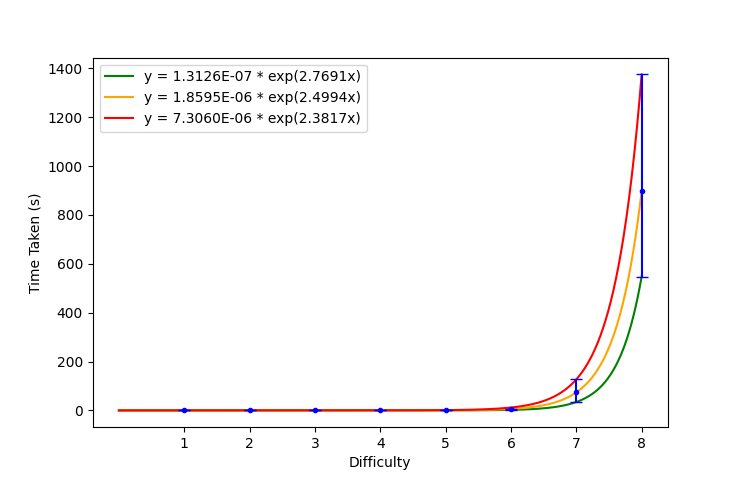
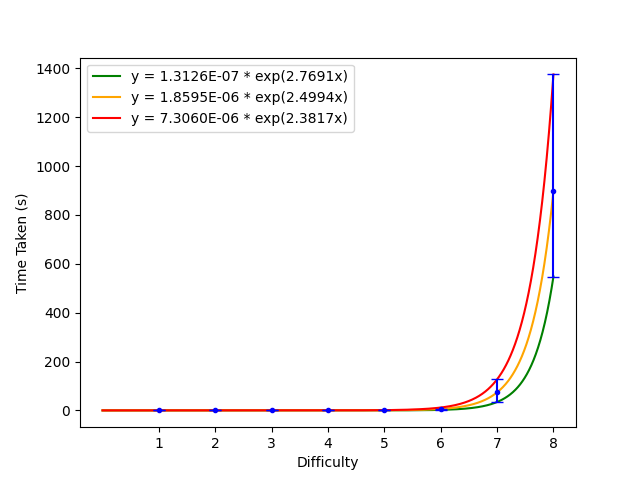
Updated contract; redrafted write up

diff --git a/code/exp_plotter.py b/code/exp_plotter.py
@@ -14,6 +14,13 @@ data = {
     # 9: [2368.5479, 925.0658]
 }
 
+energy_constant = 4.2e6 * 8.8e-12
+energy_version = False
+m = 10
+
+if not energy_version:
+    energy_constant = 1
+
 difficulties = []
 
 min_delta_times = []
@@ -31,9 +38,9 @@ for difficulty, times in data.items():
     max_delta_times.append(max_dt)
 
 difficulties = np.array(difficulties)
-min_delta_times = np.array(min_delta_times)
-avg_delta_times = np.array(avg_delta_times)
-max_delta_times = np.array(max_delta_times)
+min_delta_times = np.array(min_delta_times) * energy_constant
+avg_delta_times = np.array(avg_delta_times) * energy_constant
+max_delta_times = np.array(max_delta_times) * energy_constant
 err_delta_times = np.array(list(zip(avg_delta_times - min_delta_times, max_delta_times - avg_delta_times))).T
 
 excluded = None
@@ -42,9 +49,14 @@ excluded = None
 (A_avg, B_avg), _ = opt.curve_fit(lambda x, a, b: a * np.exp(b * x), difficulties[:excluded], avg_delta_times[:excluded])
 (A_max, B_max), _ = opt.curve_fit(lambda x, a, b: a * np.exp(b * x), difficulties[:excluded], max_delta_times[:excluded])
 
+# if energy_version:
+#     A_min *= energy_constant
+#     A_avg *= energy_constant
+#     A_max *= energy_constant
+
 # Plot the exponentially fitted curve
 def plot_exp_curve(A, B, color):
-    x = np.linspace(0, max(10, max(difficulties)), 1000)
+    x = np.linspace(0, max(m, max(difficulties)), 1000)
     y = A * np.exp(B * x)
     plt.plot(x, y, color=color)
 
@@ -56,7 +68,7 @@ plot_exp_curve(A_max, B_max, "red")
 # Plot the original data points
 plt.xticks([1, 2, 3, 4, 5, 6, 7, 8, 9, 10])
 plt.xlabel("Difficulty")
-plt.ylabel("Time Taken (s)")
+plt.ylabel("Energy Usage (kWh)" if energy_version else "Time Taken (s)")
 plt.errorbar(difficulties, avg_delta_times, yerr=err_delta_times, color="blue", fmt=".", capsize=4) # type: ignore
 plt.legend(
     [
@@ -67,18 +79,9 @@ plt.legend(
 )
 plt.show()
 
-hash_rate = 4199376
-
 diffs = np.array([1, 2, 3, 4, 5, 6, 7, 8, 9, 10])
 
 for difficulty in range(1, 11):
     expected = A_avg * np.exp(B_avg * difficulty)
     max_ = A_max * np.exp(B_max * difficulty)
     min_ = A_min * np.exp(B_min * difficulty)
-
-    pm = max(max_ - expected, expected - min_)
-
-    hash_expected = hash_rate * expected
-    hash_pm = hash_rate * pm
-
-    print(difficulty, f"{expected:.4f}+{pm:.4f}", f"{hash_expected:.3E}+{hash_pm:.3E}")

diff --git a/code/blockchain.py b/code/blockchain.py
@@ -921,7 +921,7 @@ def multi_threaded_miner_target(idx: int, malleable: str, difficulty: int, queue
         # Fast check, if the first byte is not 0x00 then it cannot be the solution
         # This is a direct memory comparison for a single byte so it is quick and leads to
         # a small (~5%) increase to the hashing rate by avoiding the need to convert to hex
-        if header_hash_digest[0] == 0x00:
+        if header_hash_digest[0] == 0x00 or difficulty == 1:
             header_hash_hex = header_hash_digest.hex()
 
             # Check the hash meets the difficulty requirements
